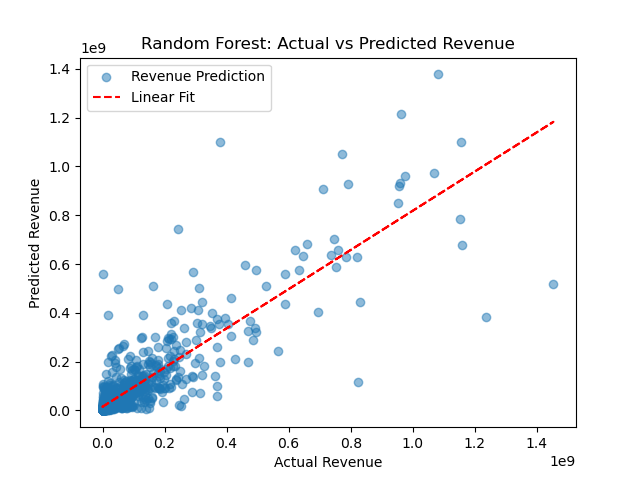
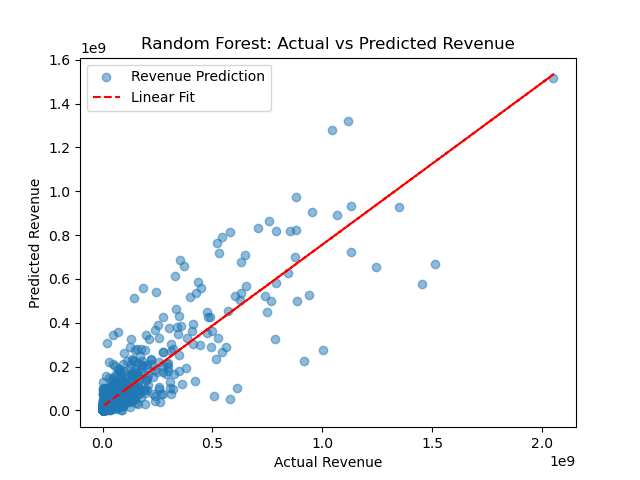
tuned the n_estimators and random_state to get better predictions

diff --git a/rev_predictions.py b/rev_predictions.py
@@ -39,7 +39,7 @@ X_train, X_test, y_train, y_test = train_test_split(X, y, test_size=0.2)
 # Train a Random Forest Regressor
 model = make_pipeline(
     MinMaxScaler(),
-    RandomForestRegressor(n_estimators=100, random_state=42)
+    RandomForestRegressor(n_estimators=200, random_state=40)
 )
 
 model.fit(X_train, y_train)
